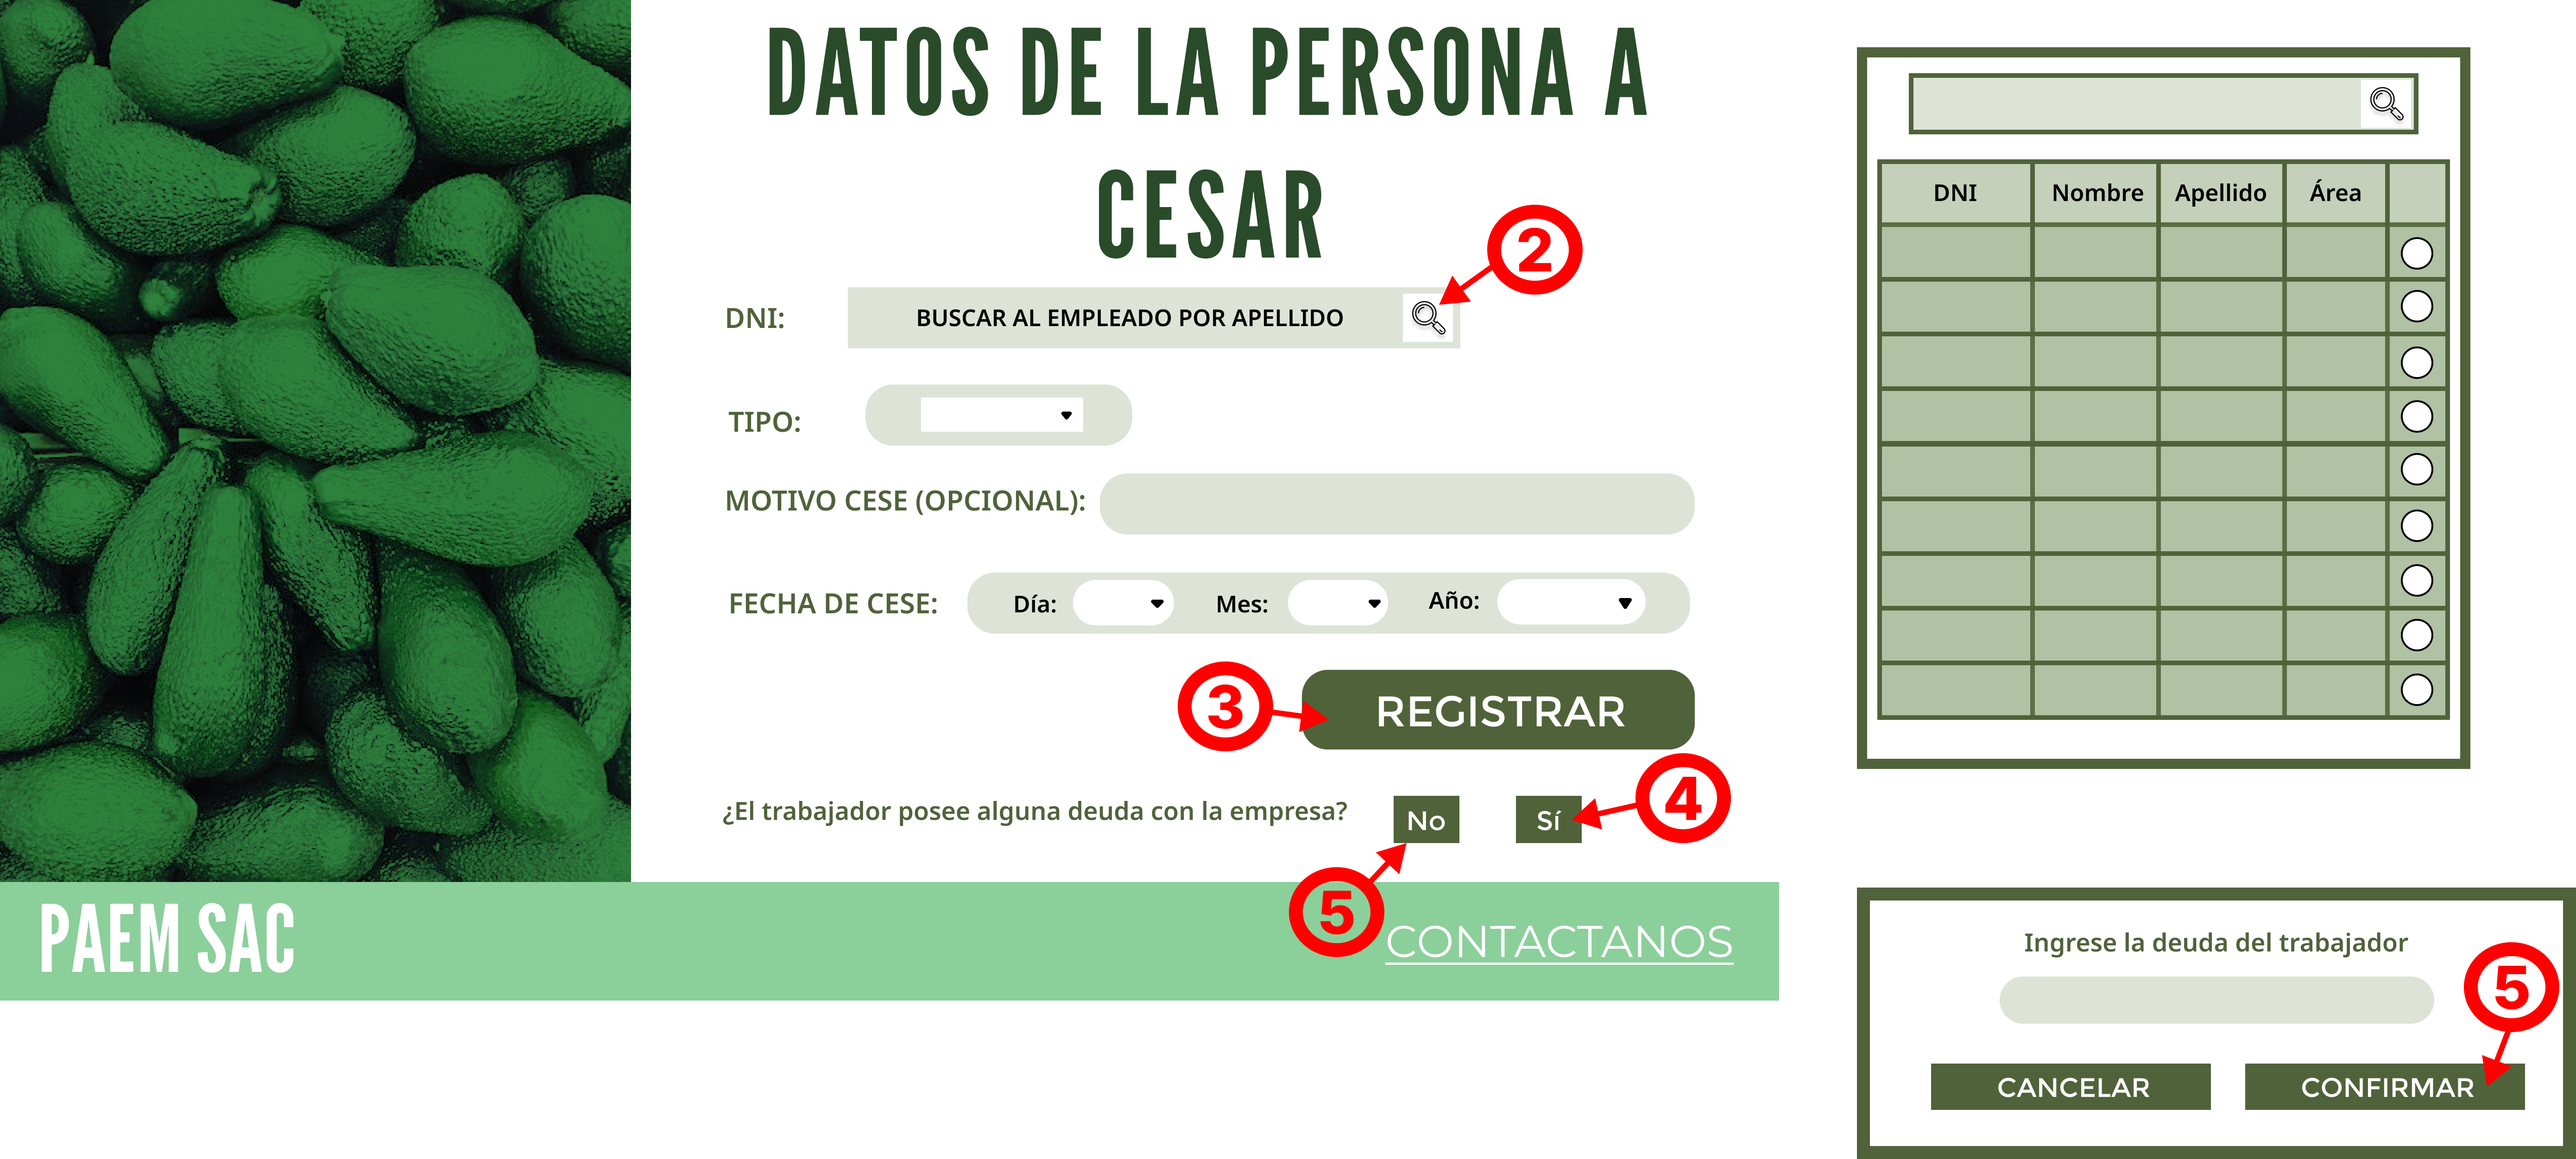
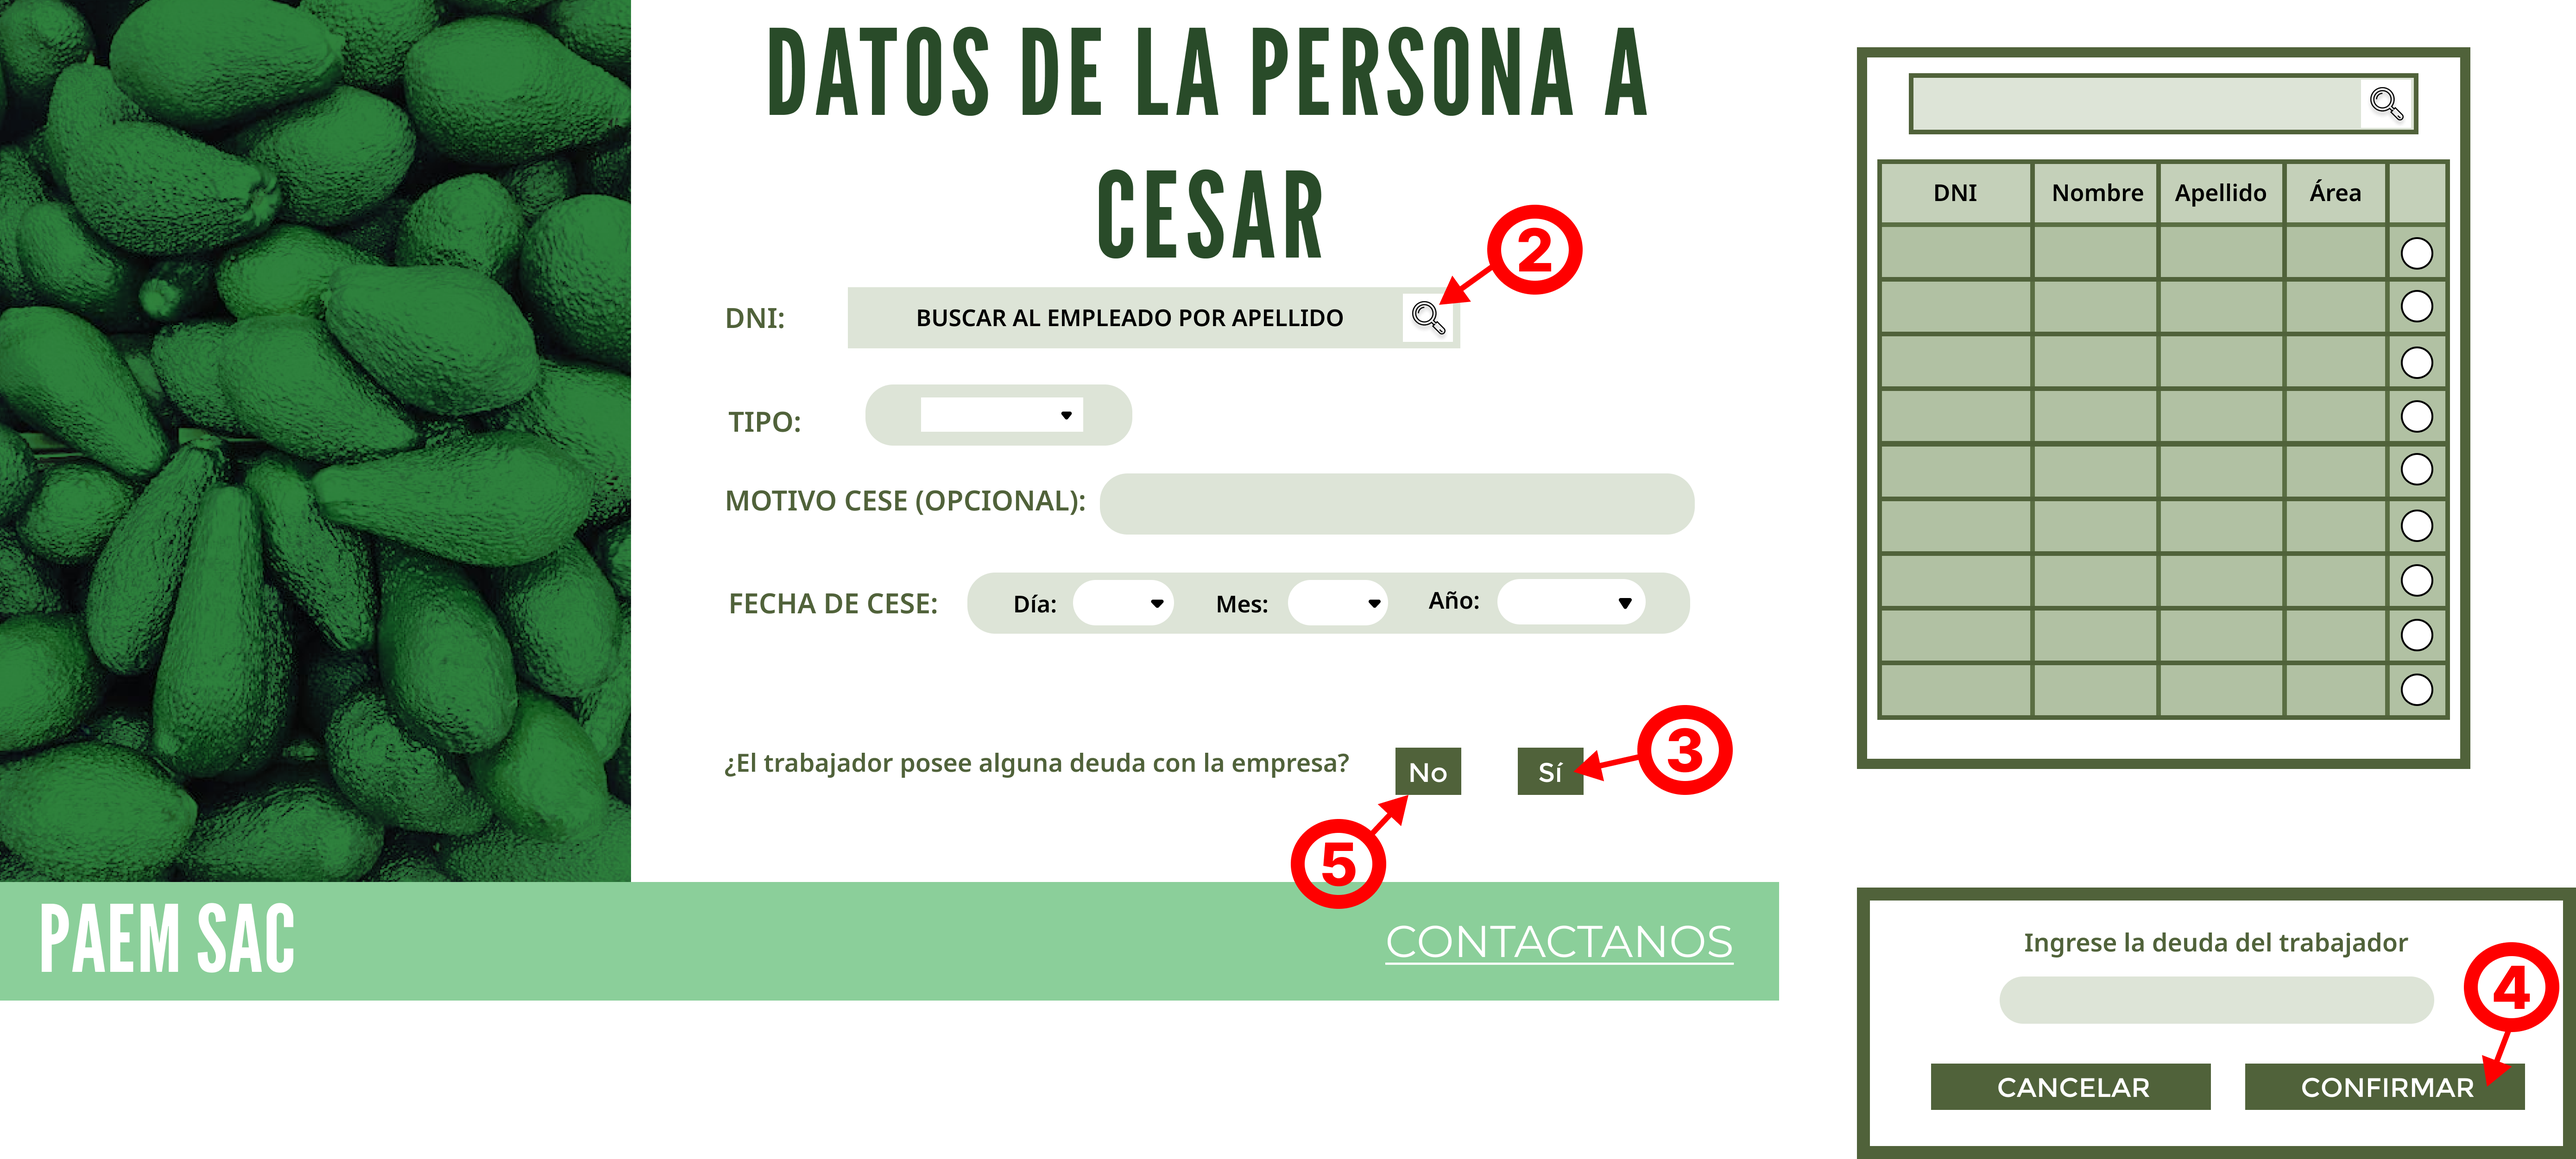
actualización 3

Changed region(s): [[0.28, 0.5612, 0.6845, 0.8417], [0.9646, 0.8417, 0.9957, 0.8729]]

diff --git a/Entregables/Entregable4/Cese.md b/Entregables/Entregable4/Cese.md
@@ -232,6 +232,16 @@ Cuando seleccionan el botón de CONFIRMAR y han escrito más preguntas propias (
 ### Quinta pantalla
 ![alt text](../Entregable3/Front/C5.png)
 
+#### Accion 8
+El empleado cesado entra a un link que se le envía al correo registrado donde aparece la pantalla 5, cuando le da click al botón CONTINUAR para poder cargar las preguntas del cuestionario
+
+	SELECT pregunta_salida 
+	FROM pregunta_salida
+	WHERE id_cuestionario=@Id_cese
+
+### Sexta pantalla
+![alt text](../Entregable3/Front/C6.png)
+
 #### Accion 9
 Luego de llenar las preguntas de su cuestionario seleccionar el boton de SIGUIENTE
 
@@ -242,4 +252,3 @@ Luego de llenar las preguntas de su cuestionario seleccionar el boton de SIGUIEN
 			LIMIT 1)+1,
 			RESP , ID_P);
 	
-![alt text](../Entregable3/Front/CuestionarioCese.png)
